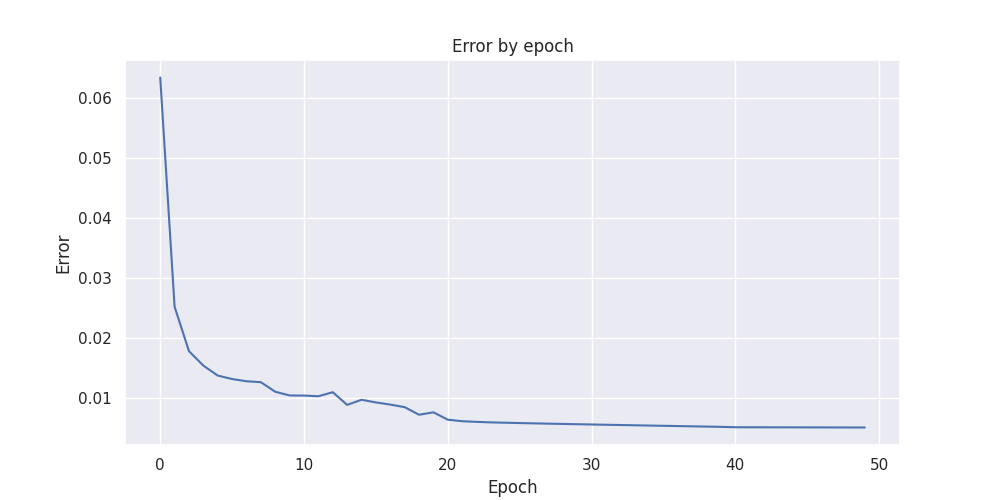
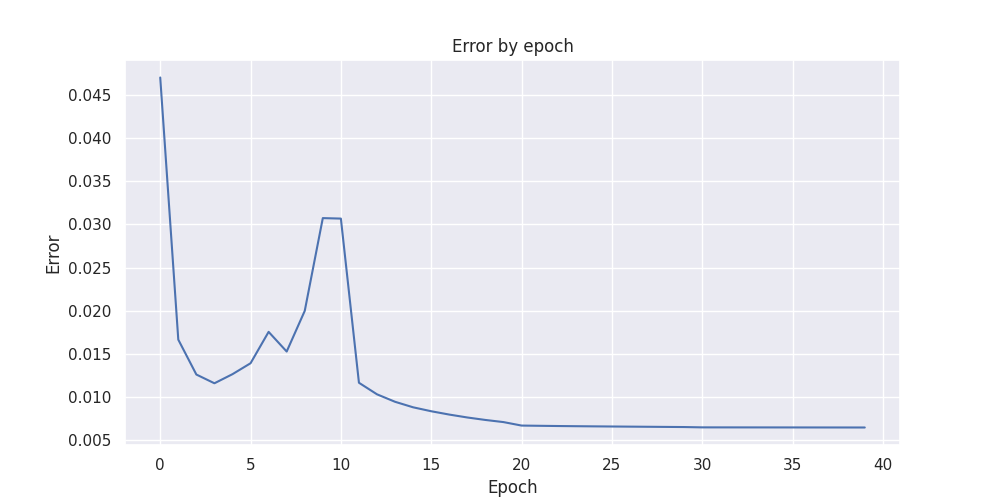
add: L2 regularization

diff --git a/LSTM_train.py b/LSTM_train.py
@@ -46,9 +46,9 @@ y_train = y_scaler.fit_transform(y_train.reshape(-1, 1)).flatten()
 
 param_grid = {    
     'hidden_layer_size': [128, 256, 512, 1024],
-    'num_layers': [4, 5, 6, 8],
+    'num_layers': [6, 8, 10, 12, 14],
     'learning_rate': [0.001, 0.005, 0.01],
-    'weight_decay': [0.0001, 0.001, 0.01, 0.1],
+    'weight_decay': [0.0001, 0.001, 0.01],
     'epochs': [20, 40, 60],
     'batch_size': [16, 32, 64]
 }
